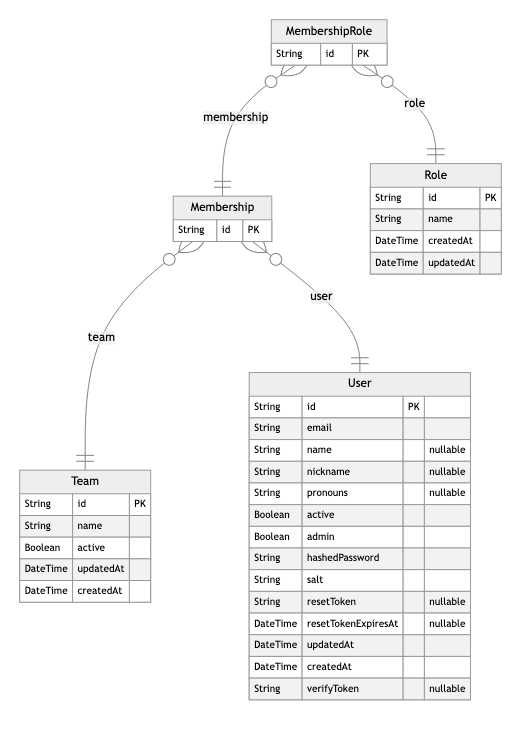
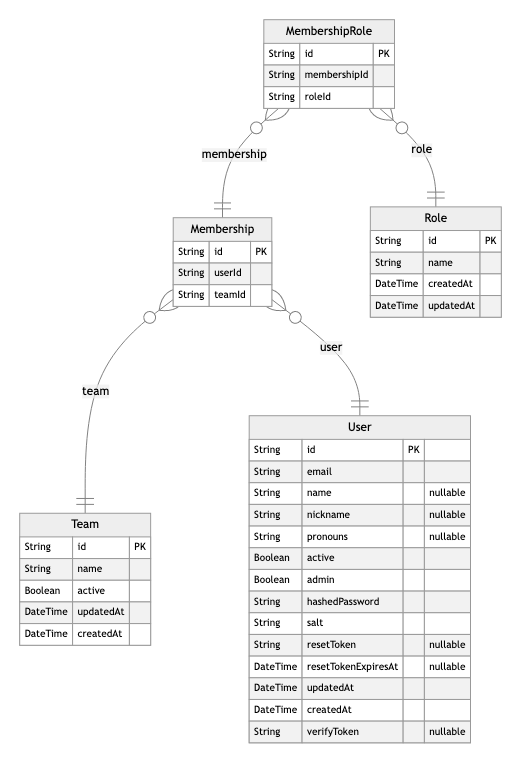
disable auto run erd - run manually

diff --git a/documentation/ERD.md b/documentation/ERD.md
@@ -21,6 +21,8 @@ erDiagram
 
   Membership {
     String id PK 
+    String userId  
+    String teamId  
     }
   
 
@@ -35,6 +37,8 @@ erDiagram
 
   MembershipRole {
     String id PK 
+    String membershipId  
+    String roleId  
     }
   
 
